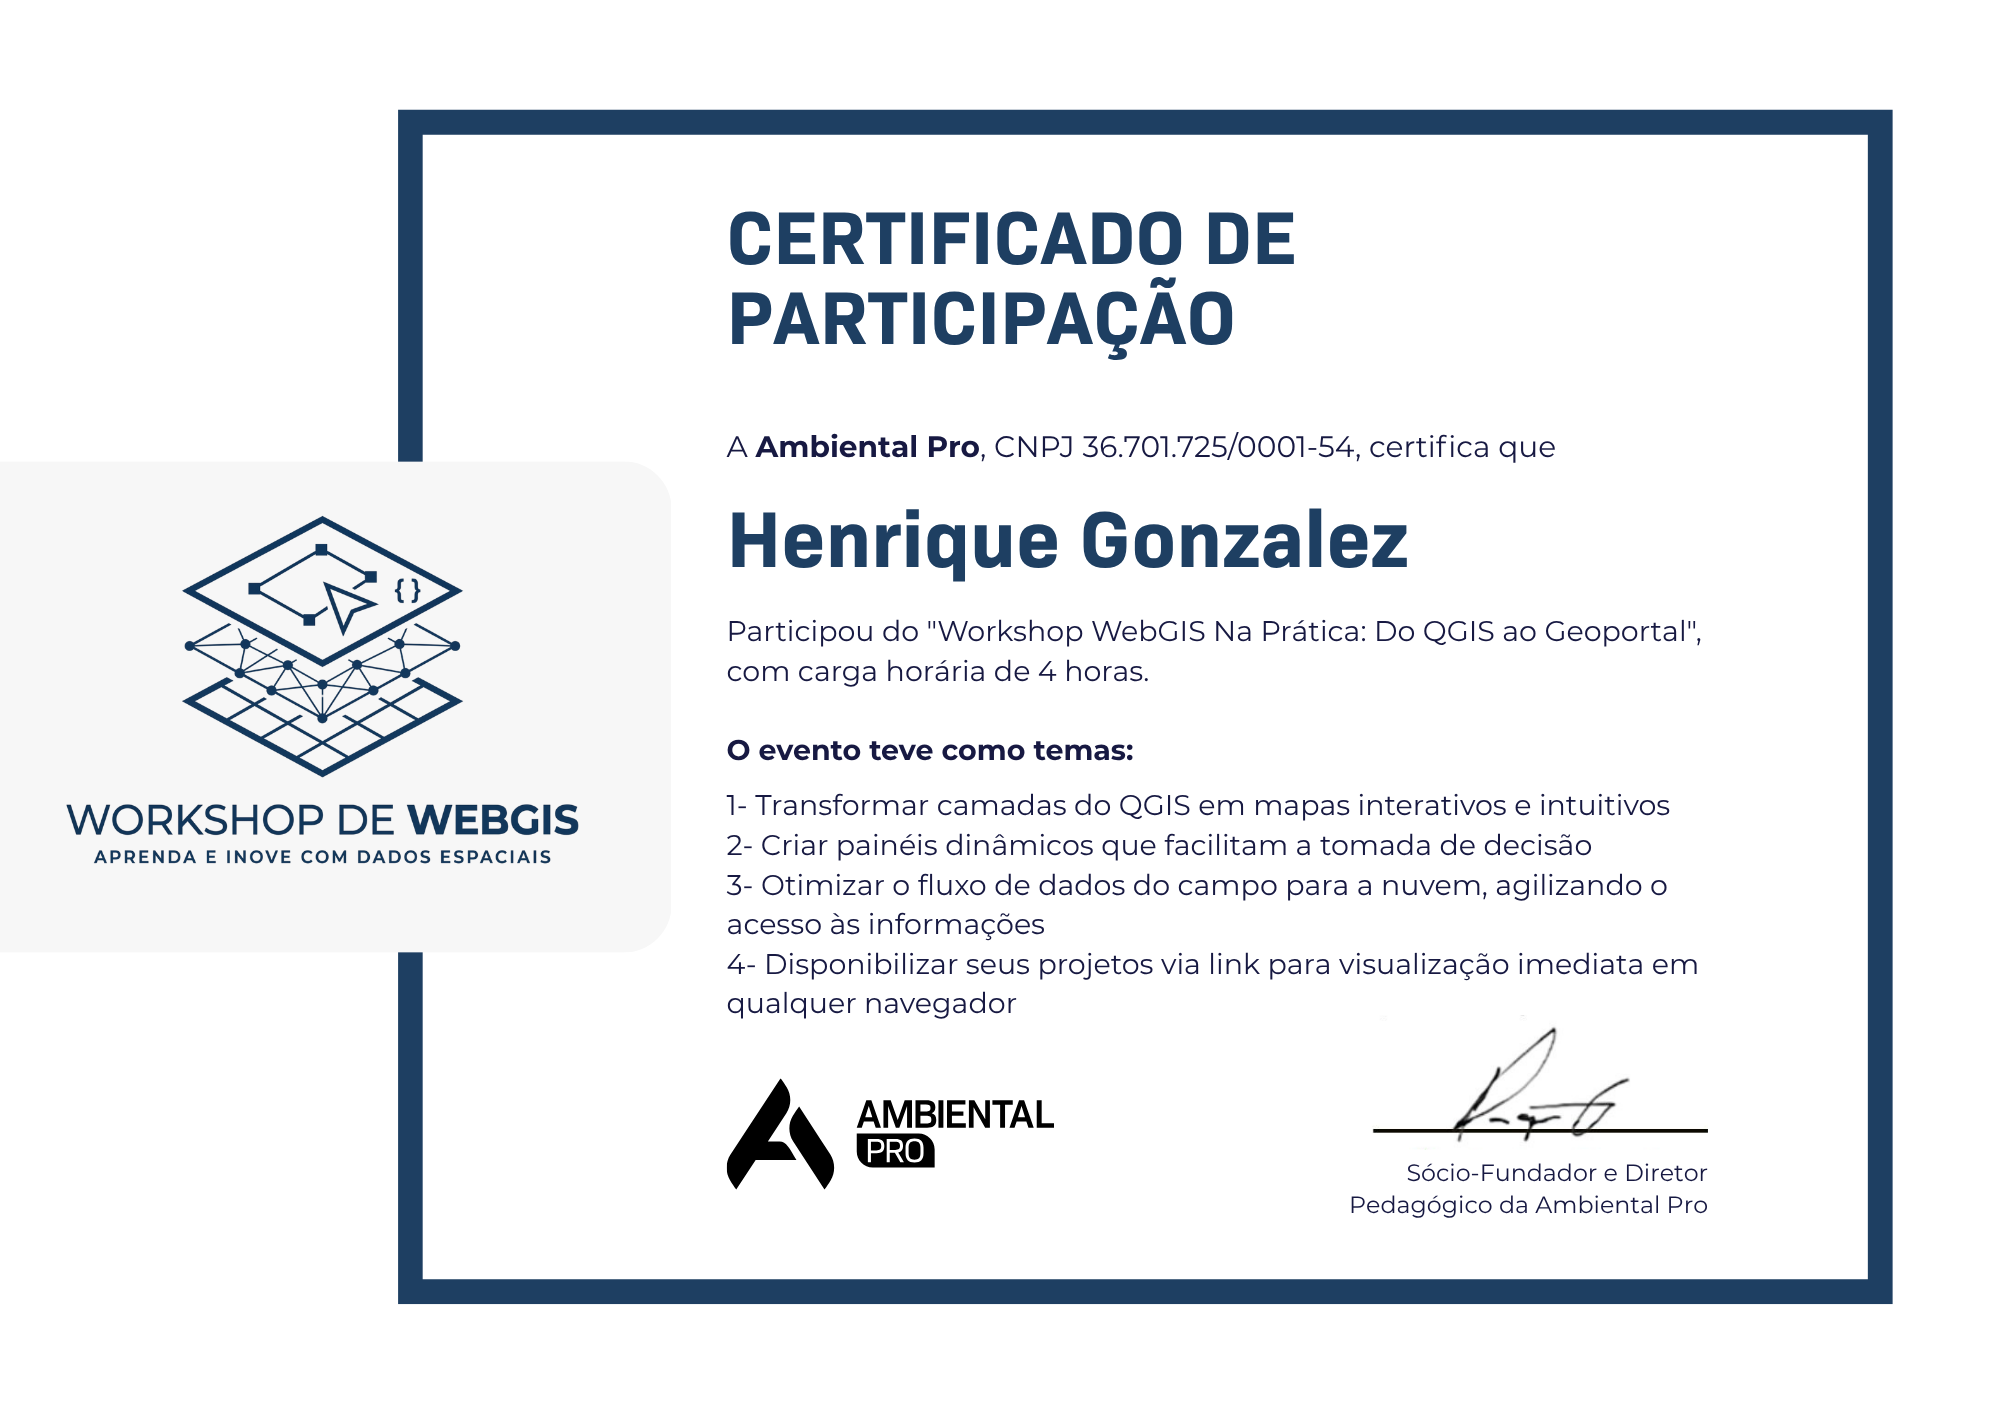
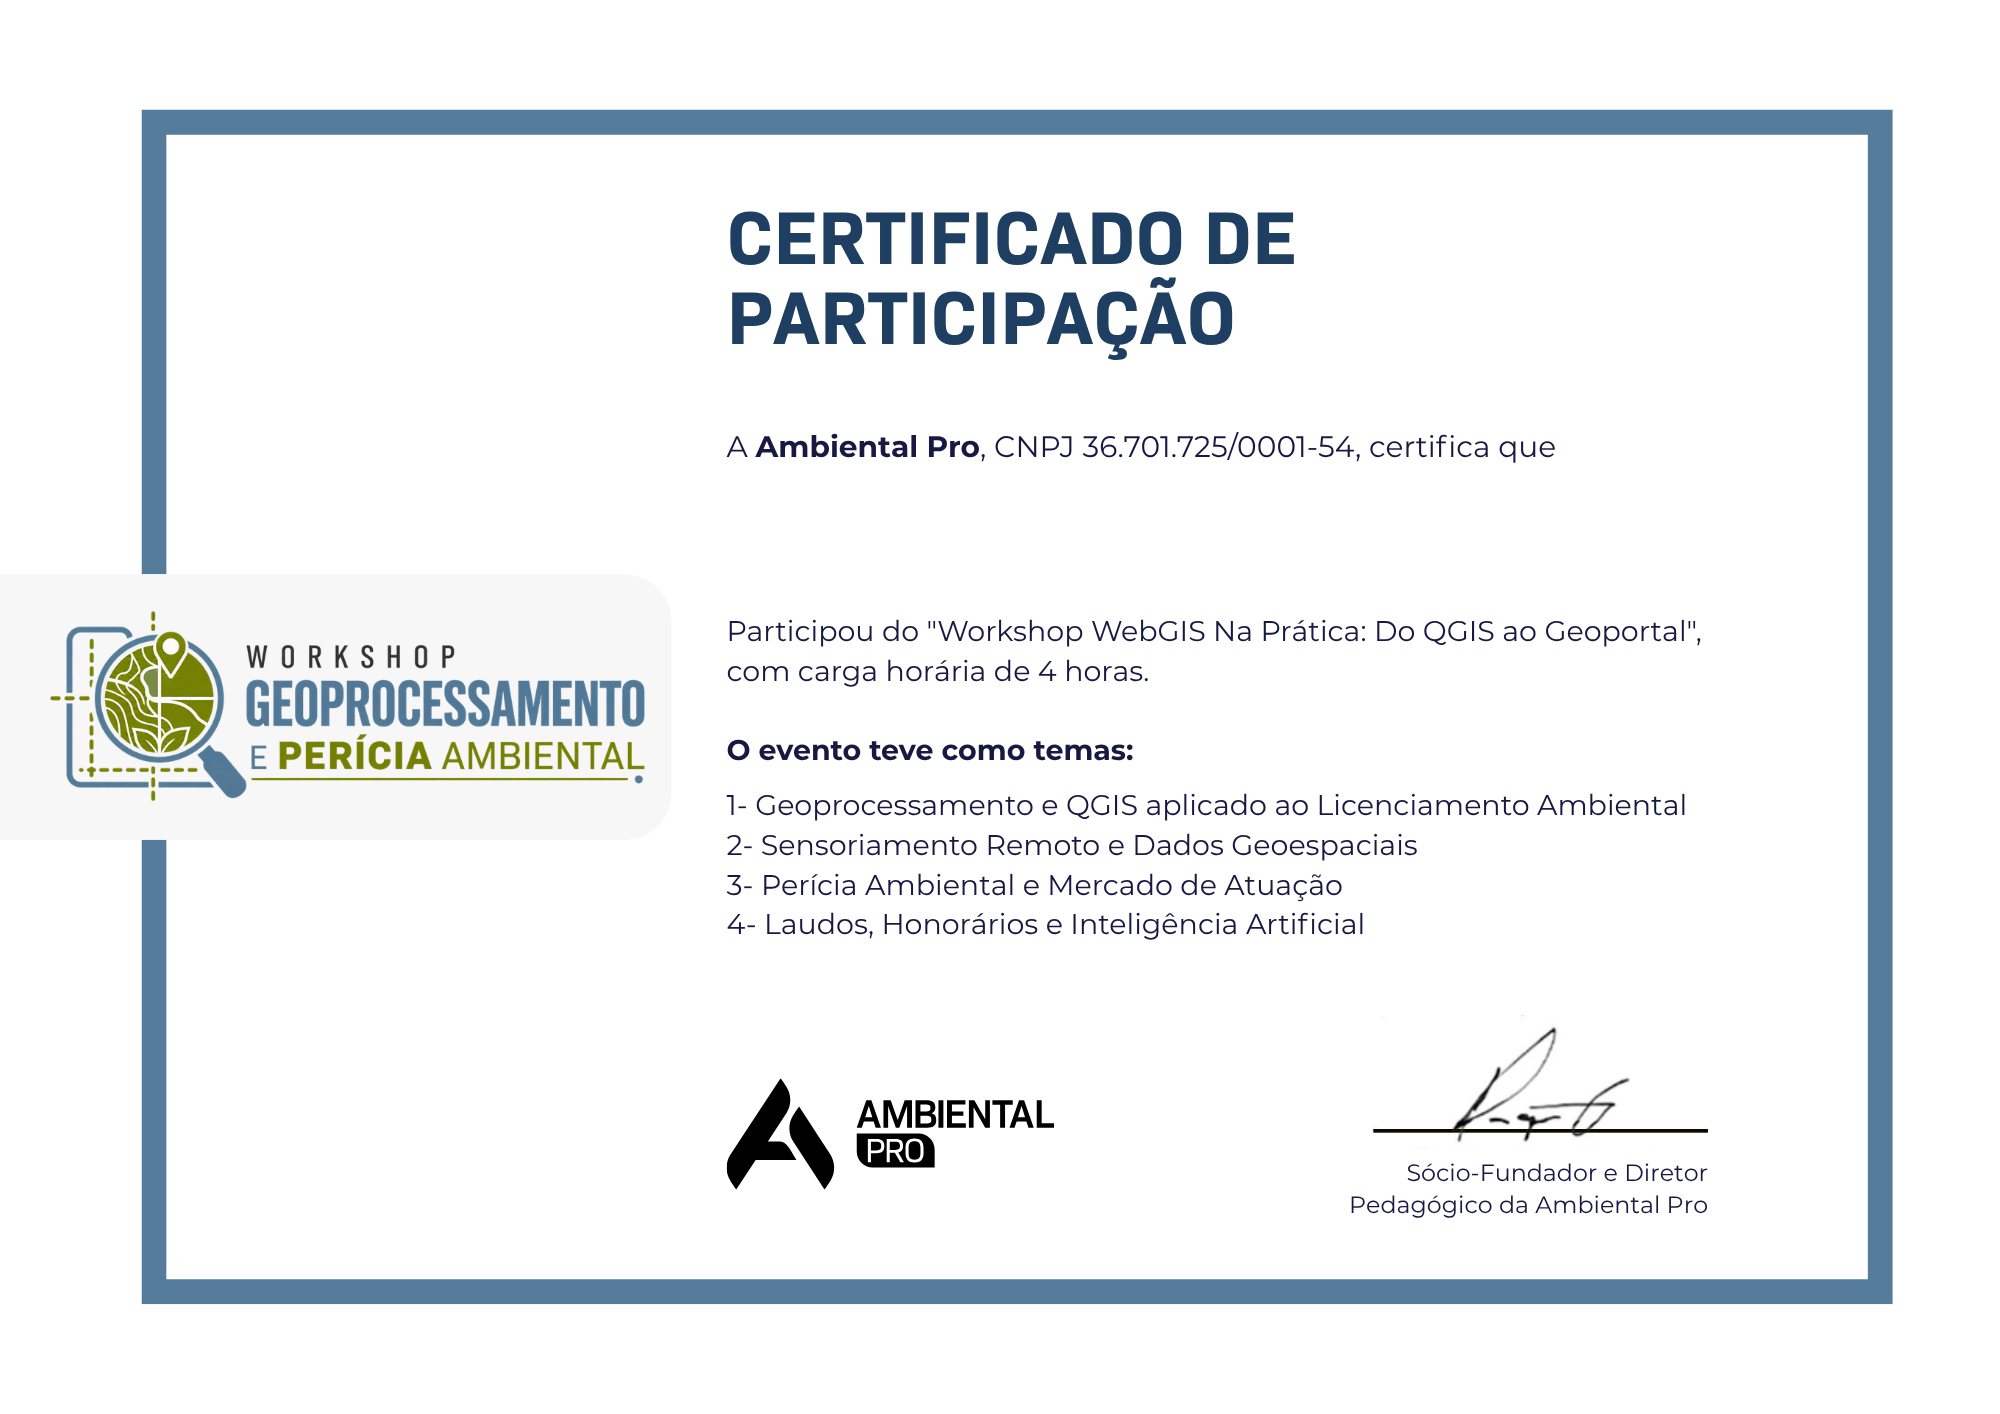
feat: update certificate image with cache busting

Changed region(s): [[0.031, 0.0622, 0.961, 0.9335], [0.372, 0.5601, 0.837, 0.7157], [0.341, 0.3423, 0.713, 0.4045]]

diff --git a/dist/index.html b/dist/index.html
@@ -655,7 +655,7 @@
         
         <div class="certificate-visual reveal delay-1">
           <div class="certificate-mockup-wrapper lightbox-trigger">
-            <img src="/certificado.png" alt="Certificado de Conclusão Workshop Geoprocessamento e Perícia Ambiental" class="certificate-img">
+            <img src="/certificado.png?v=2" alt="Certificado de Conclusão Workshop Geoprocessamento e Perícia Ambiental" class="certificate-img">
             <div class="certificate-shadow"></div>
           </div>
         </div>

diff --git a/index.html b/index.html
@@ -654,7 +654,7 @@
         
         <div class="certificate-visual reveal delay-1">
           <div class="certificate-mockup-wrapper lightbox-trigger">
-            <img src="/certificado.png" alt="Certificado de Conclusão Workshop Geoprocessamento e Perícia Ambiental" class="certificate-img">
+            <img src="/certificado.png?v=2" alt="Certificado de Conclusão Workshop Geoprocessamento e Perícia Ambiental" class="certificate-img">
             <div class="certificate-shadow"></div>
           </div>
         </div>
